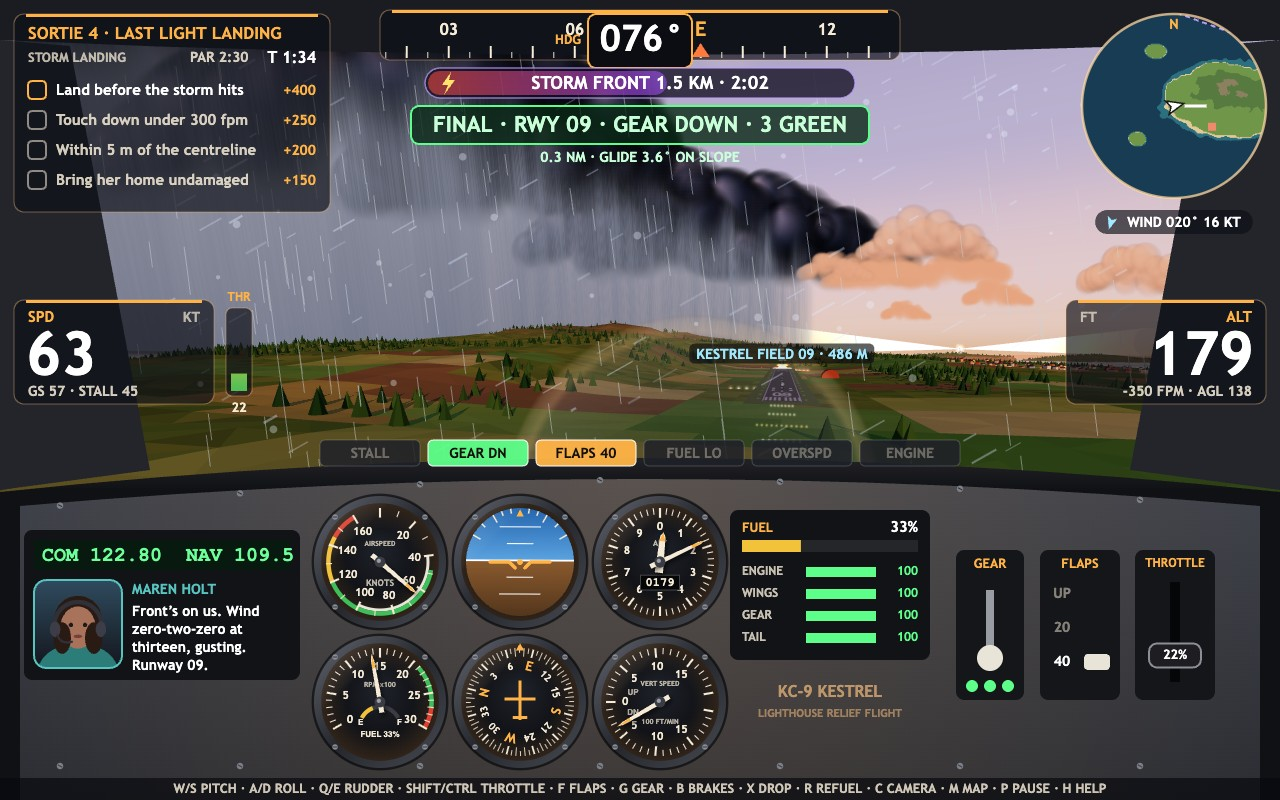
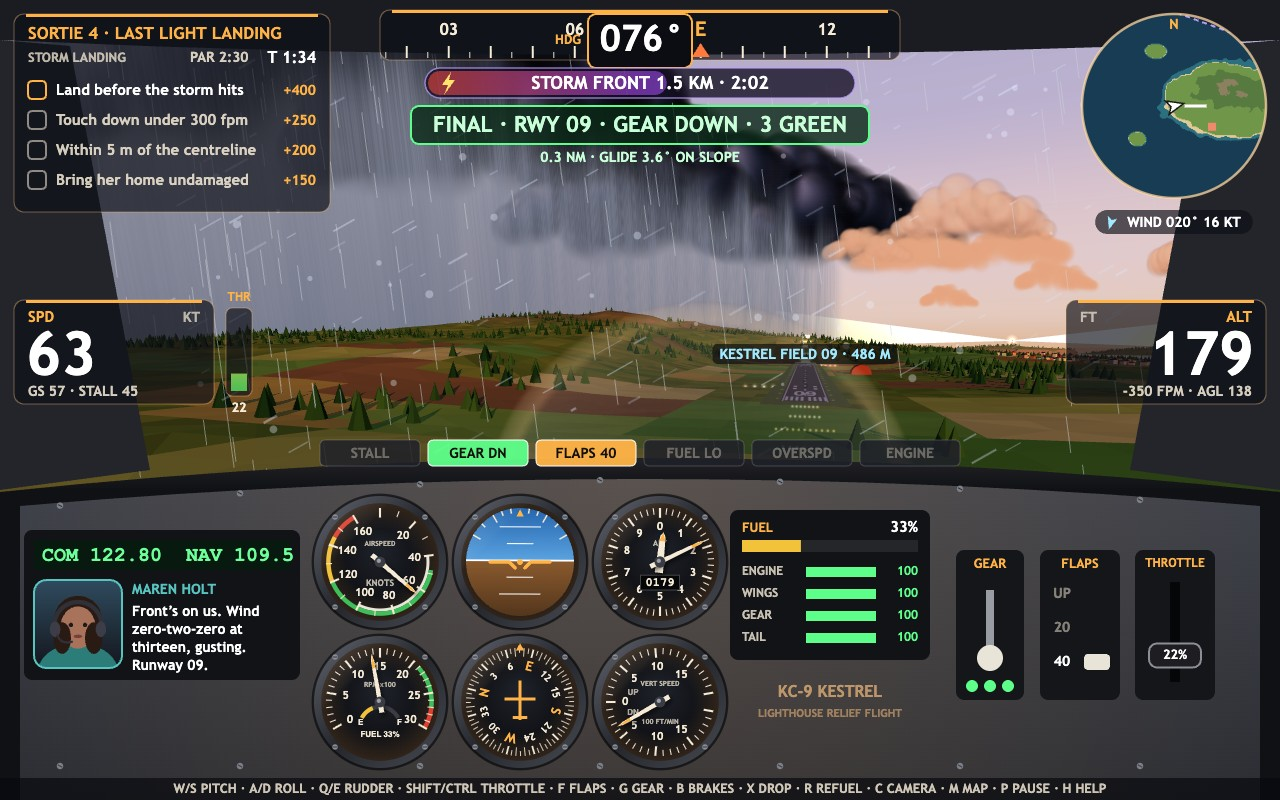
Narrower cockpit view and a closer landing-card camera

diff --git a/game/src/main.js b/game/src/main.js
@@ -88,7 +88,7 @@ function showBoardSession(index) {
 
 const BOARD_ORBIT = { angle: -1.05, radius: 15, height: 1.6, shift: new THREE.Vector3(0, -2.4, 0) };
 /** After landing the camera looks back west into the sunset over the aircraft, with the card to the right. */
-const RESULT_ORBIT = { angle: 1.95, radius: 19.5, height: 3.4, shift: new THREE.Vector3(-1.6, 0.9, -5.2) };
+const RESULT_ORBIT = { angle: 1.95, radius: 16, height: 3.0, shift: new THREE.Vector3(-1.3, 0.9, -4.4) };
 
 function placeOrbit(aircraft, angle, radius, height, shift) {
   const rig = world.rig;

diff --git a/game/src/chase-camera.js b/game/src/chase-camera.js
@@ -41,7 +41,7 @@ export function updateCamera(rig, aircraft, dt, snap = false) {
   if (rig.mode === VIEW_COCKPIT) {
     camera.position.copy(new THREE.Vector3(-0.3, 0.84, -1.35).applyQuaternion(q).add(p));
     camera.quaternion.copy(q).multiply(new THREE.Quaternion().setFromEuler(new THREE.Euler(-0.07 + jolt.y * 0.02, jolt.x * 0.015, 0)));
-    camera.fov = 72;
+    camera.fov = 64;
     camera.updateProjectionMatrix();
     rig.primed = false;
     return;
